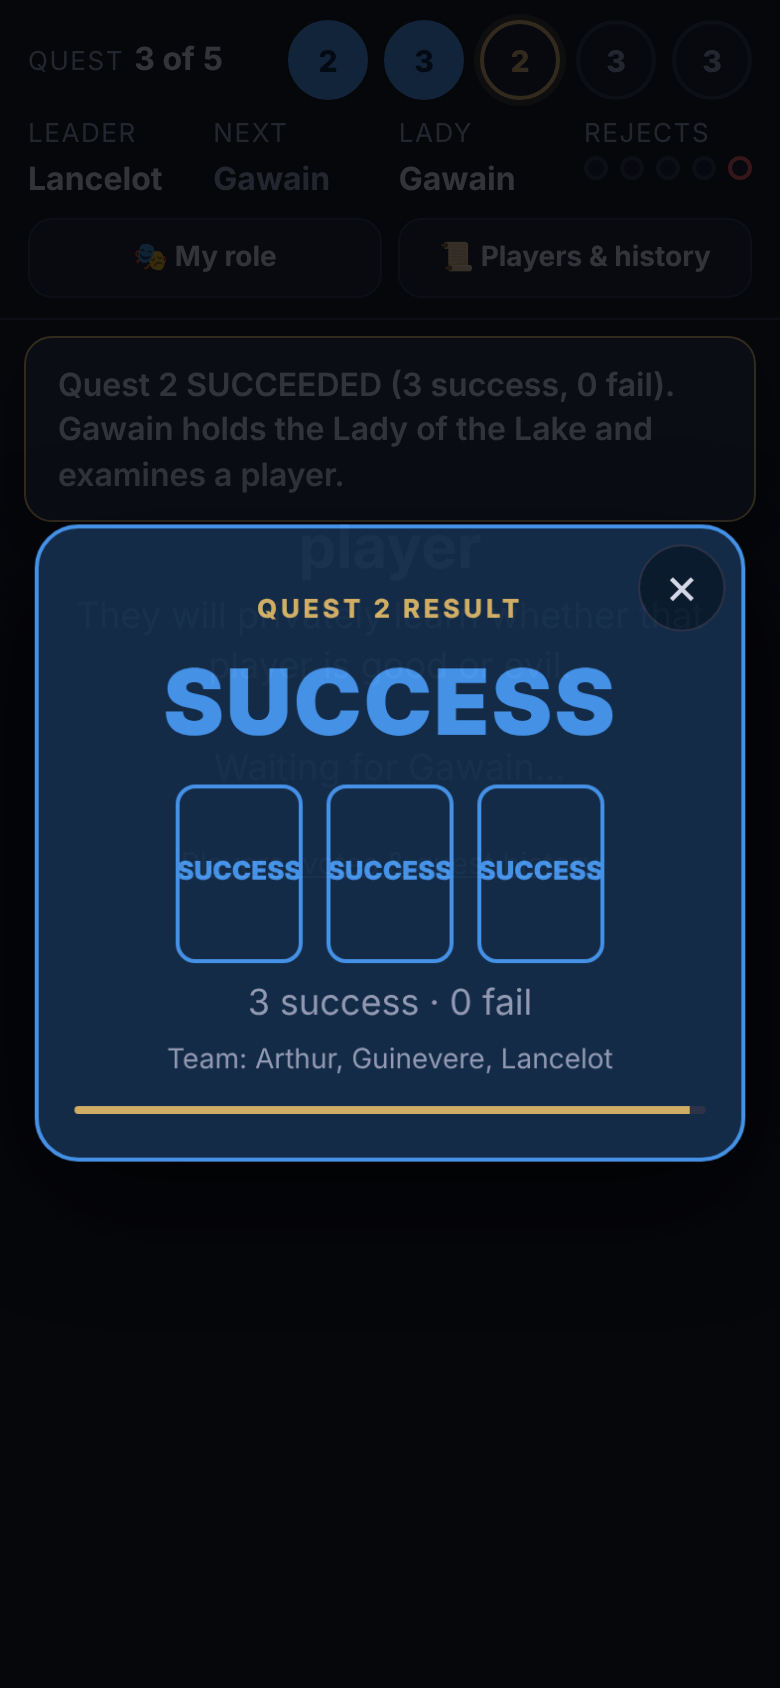
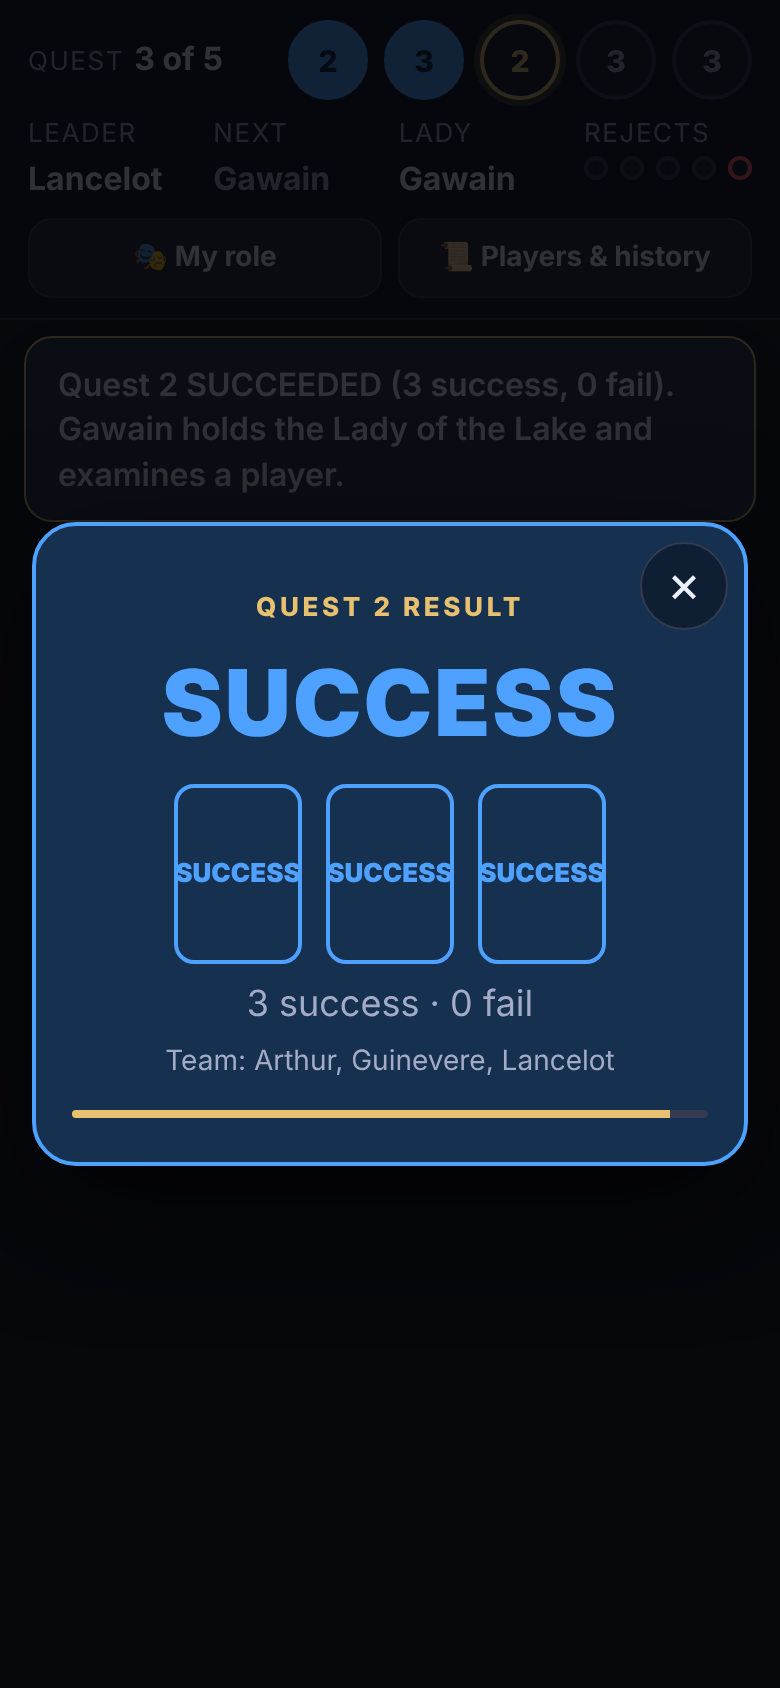
Make the quest result announcement reliable on sleeping or reconnecting phones
Each phone remembers which quest results it has actually dismissed, so a
phone that was asleep, reconnecting or reloaded when the quest finished
shows the announcement on its next update. The 5-second countdown only
runs while the screen is on.

Claude-Session: https://claude.ai/code/session_01L9td7i8WK9tKyVLFpHJSvk

Changed region(s): [[0.0308, 0.3081, 0.9846, 0.7085], [0.7385, 0.5545, 0.7692, 0.5853]]

diff --git a/server/src/main/resources/web/app.js b/server/src/main/resources/web/app.js
@@ -196,7 +196,7 @@
     if (prev && prev.phase !== state.phase && modalOnYes) closeModal(); // a pending confirmation is stale after a phase change
     render();
     if (newEvent && prev) banner(state.lastEvent); // after render, so it sits below the status bar
-    if (prev && state.quests.length > prev.quests.length) announceQuest(state.quests[state.quests.length - 1]);
+    maybeAnnounceQuest(state);
   }
 
   // ------------------------------------------------------------ helpers
@@ -646,23 +646,55 @@
   const modalBody = $('modal-body');
   let modalTimer = null;
   let modalOnYes = null;
+  let modalOnClose = null;
   function showModal(html, opts) {
     opts = opts || {};
     clearTimeout(modalTimer);
+    if (modalOnClose) { const f = modalOnClose; modalOnClose = null; f(); } // replacing an open announcement counts as closing it
     modalOnYes = opts.onYes || null;
+    modalOnClose = opts.onClose || null;
     modalBody.innerHTML = html;
     modalEl.querySelector('.modal-card').className = 'modal-card ' + (opts.cls || '');
     modalEl.classList.remove('hidden');
-    if (opts.autoCloseMs) modalTimer = setTimeout(closeModal, opts.autoCloseMs);
+    modalAutoClose = opts.autoCloseMs || 0;
+    armModalTimer();
   }
-  function closeModal() { clearTimeout(modalTimer); modalOnYes = null; modalEl.classList.add('hidden'); modalBody.innerHTML = ''; }
+  let modalAutoClose = 0;
+  // The countdown only runs while the screen is on, so a sleeping phone shows the dialog when it wakes.
+  function armModalTimer() {
+    clearTimeout(modalTimer);
+    if (modalAutoClose && document.visibilityState === 'visible') modalTimer = setTimeout(closeModal, modalAutoClose);
+  }
+  document.addEventListener('visibilitychange', () => { if (!modalEl.classList.contains('hidden')) armModalTimer(); });
+  function closeModal() {
+    clearTimeout(modalTimer); modalAutoClose = 0; modalOnYes = null;
+    modalEl.classList.add('hidden'); modalBody.innerHTML = '';
+    if (modalOnClose) { const f = modalOnClose; modalOnClose = null; f(); }
+  }
   /** In-page confirmation: the browser's native dialog is silently cancelled inside Android WebViews. */
   function confirmDialog(text, onYes) {
     showModal(`<p style="font-size:19px;font-weight:700;margin:6px 0 16px">${esc(text)}</p>
       <div class="row"><button class="btn ghost" data-action="closeModal">Cancel</button><button class="btn" data-action="confirmYes">Yes</button></div>`, { onYes });
   }
   const ANNOUNCE_MS = 5000;
-  function announceQuest(q) {
+  let announceOpen = false;
+  /**
+   * Show the result of any quest this phone has not announced yet. Remembered in
+   * localStorage so a phone that was asleep, reconnecting or reloaded at the moment
+   * the quest finished still gets the announcement on its next update.
+   */
+  function maybeAnnounceQuest(state) {
+    if (state.phase === 'LOBBY' || state.phase === 'ROLE_REVEAL') { store.set('announced', '0'); return; }
+    const n = state.quests.length;
+    let done = parseInt(store.get('announced') || '0', 10) || 0;
+    if (done > n) done = 0; // a new game started
+    if (n > done && !announceOpen) {
+      announceOpen = true;
+      // Only count it as seen once the dialog closes (x, tap outside, or the timer while the screen is on).
+      announceQuest(state.quests[n - 1], () => { announceOpen = false; store.set('announced', String(n)); });
+    }
+  }
+  function announceQuest(q, onClose) {
     const ok = q.succeeded;
     showModal(`<div class="announce">
         <div class="eyebrow">Quest ${q.quest} result</div>
@@ -671,7 +703,7 @@
         <div class="counts">${q.successes} success · ${q.fails} fail${q.failsRequired === 2 ? ' · two fails were needed' : ''}</div>
         <div class="muted" style="font-size:14px">Team: ${q.teamIds.map(nameOf).map(esc).join(', ')}</div>
         <div class="timer"><div style="--ms:${ANNOUNCE_MS}ms"></div></div>
-      </div>`, { cls: ok ? 'good' : 'evil', autoCloseMs: ANNOUNCE_MS });
+      </div>`, { cls: ok ? 'good' : 'evil', autoCloseMs: ANNOUNCE_MS, onClose });
   }
   function showRoleModal() {
     const m = me();
